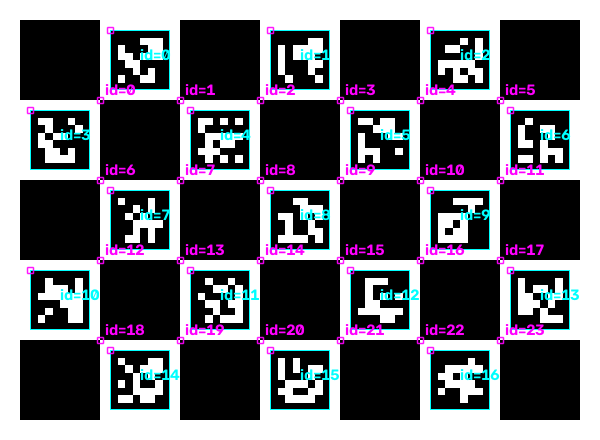
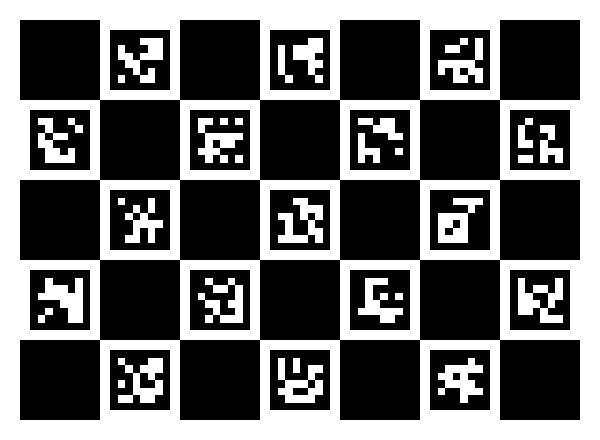
docs: refresh PR verification gallery from MuJoCo runs
Regenerate rig/detection/3D-network images from sim outputs and update
the PR description gallery after Python tool tests (25/25).

diff --git a/docs/PR_DESCRIPTION.md b/docs/PR_DESCRIPTION.md
@@ -28,22 +28,28 @@ This pull request modernizes **CALICO** (Camera Calibration with Incremental Cer
 
 ## Visual Showcase: Rig Setup, Detection & Reconstruction
 
+Full gallery (AprilTag + ChArUco MuJoCo runs, detection overlays, recovered 3D networks):
+
+![PR verification gallery](https://raw.githubusercontent.com/AnshShah3009/calico/feat/setup-opencv5-cuda/docs/images/pr_verification_gallery.png)
+
 ### 1. Multi-Camera Rig Setup in MuJoCo
-A 3-camera surround system (`cam0`, `cam1`, `cam2`) observing dual non-coplanar calibration targets:
+Three-camera surround views of dual non-coplanar targets:
 
-![Multi-Camera Rig Setup](https://raw.githubusercontent.com/AnshShah3009/calico/feat/setup-opencv5-cuda/docs/images/rig_setup_charuco.png)
+| AprilTag grid | ChArUco |
+| :---: | :---: |
+| ![AprilTag rig](https://raw.githubusercontent.com/AnshShah3009/calico/feat/setup-opencv5-cuda/docs/images/rig_setup_april.png) | ![ChArUco rig](https://raw.githubusercontent.com/AnshShah3009/calico/feat/setup-opencv5-cuda/docs/images/rig_setup_charuco.png) |
 
-### 2. Pattern Definition, Detection & Reprojection
-Sub-pixel corner detection across ChArUco targets and reprojection verification:
-
-| Board Layout | Detection & Corner Fit | Reprojected Fit |
+### 2. Pattern Boards & Detection
+| Patterns | ChArUco multi-cam detection | AprilTag labeled boards |
 | :---: | :---: | :---: |
-| ![Board Layout](https://raw.githubusercontent.com/AnshShah3009/calico/feat/setup-opencv5-cuda/docs/images/charuco_board_layout.png) | ![Detection](https://raw.githubusercontent.com/AnshShah3009/calico/feat/setup-opencv5-cuda/docs/images/charuco_detection.png) | ![Reprojection](https://raw.githubusercontent.com/AnshShah3009/calico/feat/setup-opencv5-cuda/docs/images/charuco_reprojection.png) |
+| ![Boards](https://raw.githubusercontent.com/AnshShah3009/calico/feat/setup-opencv5-cuda/docs/images/pattern_boards_charuco_april.png) | ![Detection](https://raw.githubusercontent.com/AnshShah3009/calico/feat/setup-opencv5-cuda/docs/images/charuco_detection_multicam.png) | ![April labels](https://raw.githubusercontent.com/AnshShah3009/calico/feat/setup-opencv5-cuda/docs/images/april_boards_labeled.png) |
 
-### 3. Calibrated 3D Camera Network
-Reconstructed spatial relationship showing camera optical centers, viewing cones, and target positions:
+### 3. Recovered 3D Camera Networks
+Camera frustums, baselines (mm), and board poses from `calibration.json`:
 
-![Calibrated Camera Network](https://raw.githubusercontent.com/AnshShah3009/calico/feat/setup-opencv5-cuda/docs/images/calibrated_camera_network_3d.png)
+| AprilTag MuJoCo | ChArUco MuJoCo |
+| :---: | :---: |
+| ![April network](https://raw.githubusercontent.com/AnshShah3009/calico/feat/setup-opencv5-cuda/docs/images/calibrated_camera_network_3d.png) | ![ChArUco network](https://raw.githubusercontent.com/AnshShah3009/calico/feat/setup-opencv5-cuda/docs/images/calibrated_camera_network_charuco_3d.png) |
 
 ---
 
@@ -59,6 +65,8 @@ Enforced by `sim/verify_mujoco_april.py` / `sim/verify_mujoco_charuco.py` (no `-
 | OpenCV reprojection RMS | $\le 1.5$ px |
 
 Pose checks assert the `inv(T)` convention (calibration.json `T_world_camera` is camera-from-world) and do not min() over both conventions.
+
+**Local checks for this update:** `python3 tools/test_tools.py` → **25/25 OK**. Showcase images regenerated from MuJoCo sim outputs + recovered `calibration.json` networks.
 
 ---
 
